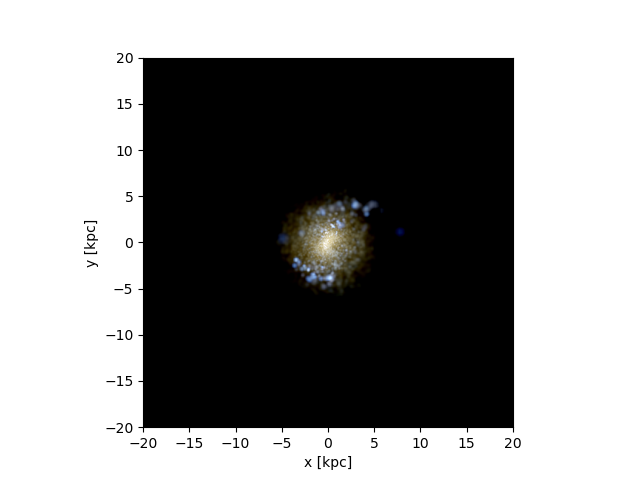
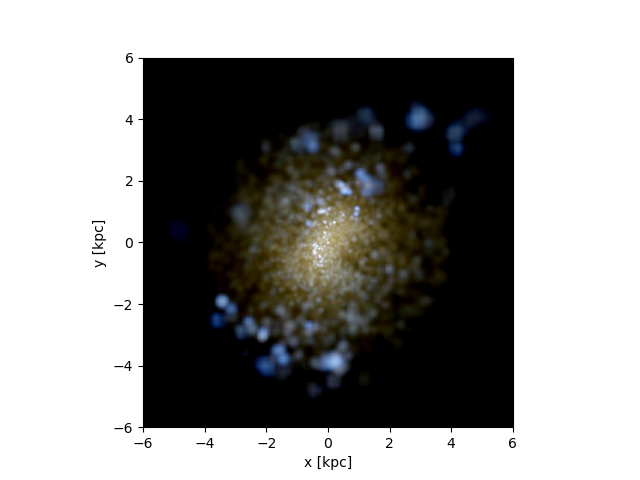
stars axis updated

diff --git a/r142/galaxy142_stars.py b/r142/galaxy142_stars.py
@@ -13,7 +13,7 @@ s.physical_units()
 pynbody.analysis.angmom.faceon(s)
 
 #creating image using default bands(i,v,u)
-pynbody.plot.stars.render(s,width='40 kpc')
+pynbody.plot.stars.render(s,width='12 kpc')
 
 #plt.show()
 plt.savefig("galaxy142_stars.png")

diff --git a/r154/galaxy154_stars.py b/r154/galaxy154_stars.py
@@ -13,7 +13,7 @@ s.physical_units()
 pynbody.analysis.angmom.faceon(s)
 
 #creating image using default bands(i,v,u)
-pynbody.plot.stars.render(s,width='40 kpc')
+pynbody.plot.stars.render(s,width='12 kpc')
 
 #plt.show()
 plt.savefig("galaxy154_stars.png")

diff --git a/r168/galaxy168_stars.py b/r168/galaxy168_stars.py
@@ -13,7 +13,7 @@ s.physical_units()
 pynbody.analysis.angmom.faceon(s)
 
 #creating image using default bands(i,v,u)
-pynbody.plot.stars.render(s,width='40 kpc')
+pynbody.plot.stars.render(s,width='12 kpc')
 
 #plt.show()
 plt.savefig("galaxy168_stars.png")

diff --git a/r204/galaxy204_stars.py b/r204/galaxy204_stars.py
@@ -13,7 +13,7 @@ s.physical_units()
 pynbody.analysis.angmom.faceon(s)
 
 #creating image using default bands(i,v,u)
-pynbody.plot.stars.render(s,width='40 kpc')
+pynbody.plot.stars.render(s,width='12 kpc')
 
 #plt.show()
 plt.savefig("galaxy204_stars.png")
